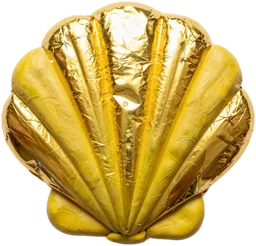
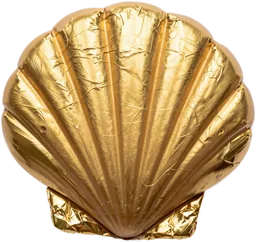
Pipi clay: repaint gold shell and kiwi wave

diff --git a/scripts/pipi-art.py b/scripts/pipi-art.py
@@ -58,7 +58,7 @@ SHELLS = {
     # Beanstalk found clay asked to be "metal" comes out matt; wrapped in foil it shines (4 Nov 2026).
     'bronze': f'the whole shell wrapped smoothly in shiny crinkled coppery bronze foil like a chocolate coin wrapper, {SHINE}, every part of it bronze, the middle flat and smooth',
     'silver': f'the whole shell wrapped smoothly in shiny crinkled silver foil like a chrome mirror, {SHINE}, every ridge and the middle the same grey metallic silver',
-    'gold': f'the whole shell wrapped smoothly in shiny crinkled yellow gold foil, {SHINE}, every part of it gold, three tiny sparkles',
+    'gold': f'the whole shell wrapped smoothly in shiny crinkled metallic gold foil like a gold chocolate coin wrapper, {SHINE}, every ridge and the middle the same rich metallic gold, three tiny sparkles',
 }
 
 PEARL = f'the Golden Pearl, one big round smooth pearl in {SHINE} in shining yellow gold with a soft warm glow'
@@ -75,7 +75,7 @@ FRIENDS = {
     'weta': 'a cute friendly small New Zealand weta insect, a round shiny brown body with stripes, six long spiky back legs, long thin feelers, big kind eyes and a smile, wearing a little green knitted scarf, ',
     'kiwi': ('a cute small round New Zealand kiwi bird with a pale pink beak that reaches far out in front of its face, pointing straight out forward '
              'and slightly down, as long as its whole body, long and slender like a sharpened pencil, with a little round nostril at the tip, '
-             'the beak clearly the longest part of the bird; a big round egg-shaped body with fluffy shaggy brown feathers, a round bottom, '
+             'the beak clearly the longest part of the bird; seen from the side, its small round head sitting low and snug on a big round egg-shaped body with fluffy shaggy brown feathers, a round bottom, '
              'small bright dark eyes, rosy cheeks, tiny wings, thick strong grey legs and big feet with three toes, wearing a little yellow knitted scarf, '),
     'tui': 'a cute small round New Zealand tui bird with glossy dark blue-green feathers, a little white tuft at its throat, big round friendly eyes, a small dark beak and a smile, wearing a little purple knitted scarf, ',
 }

diff --git a/docs/PIPI-ART-PLAN.md b/docs/PIPI-ART-PLAN.md
@@ -36,3 +36,4 @@ out matt. The page's shadows are soft (clay) instead of the hard paper edge (`--
 - Positive wording only: the model draws whatever is named.
 - No numbers or writing in any picture.
 - Sprites on plain white so rembg can cut them out.
+- Gold foil: say "metallic gold", not "yellow gold" (yellow comes out as yellow clay). Kiwi: "seen from the side", head low on the body, or it grows a neck.
